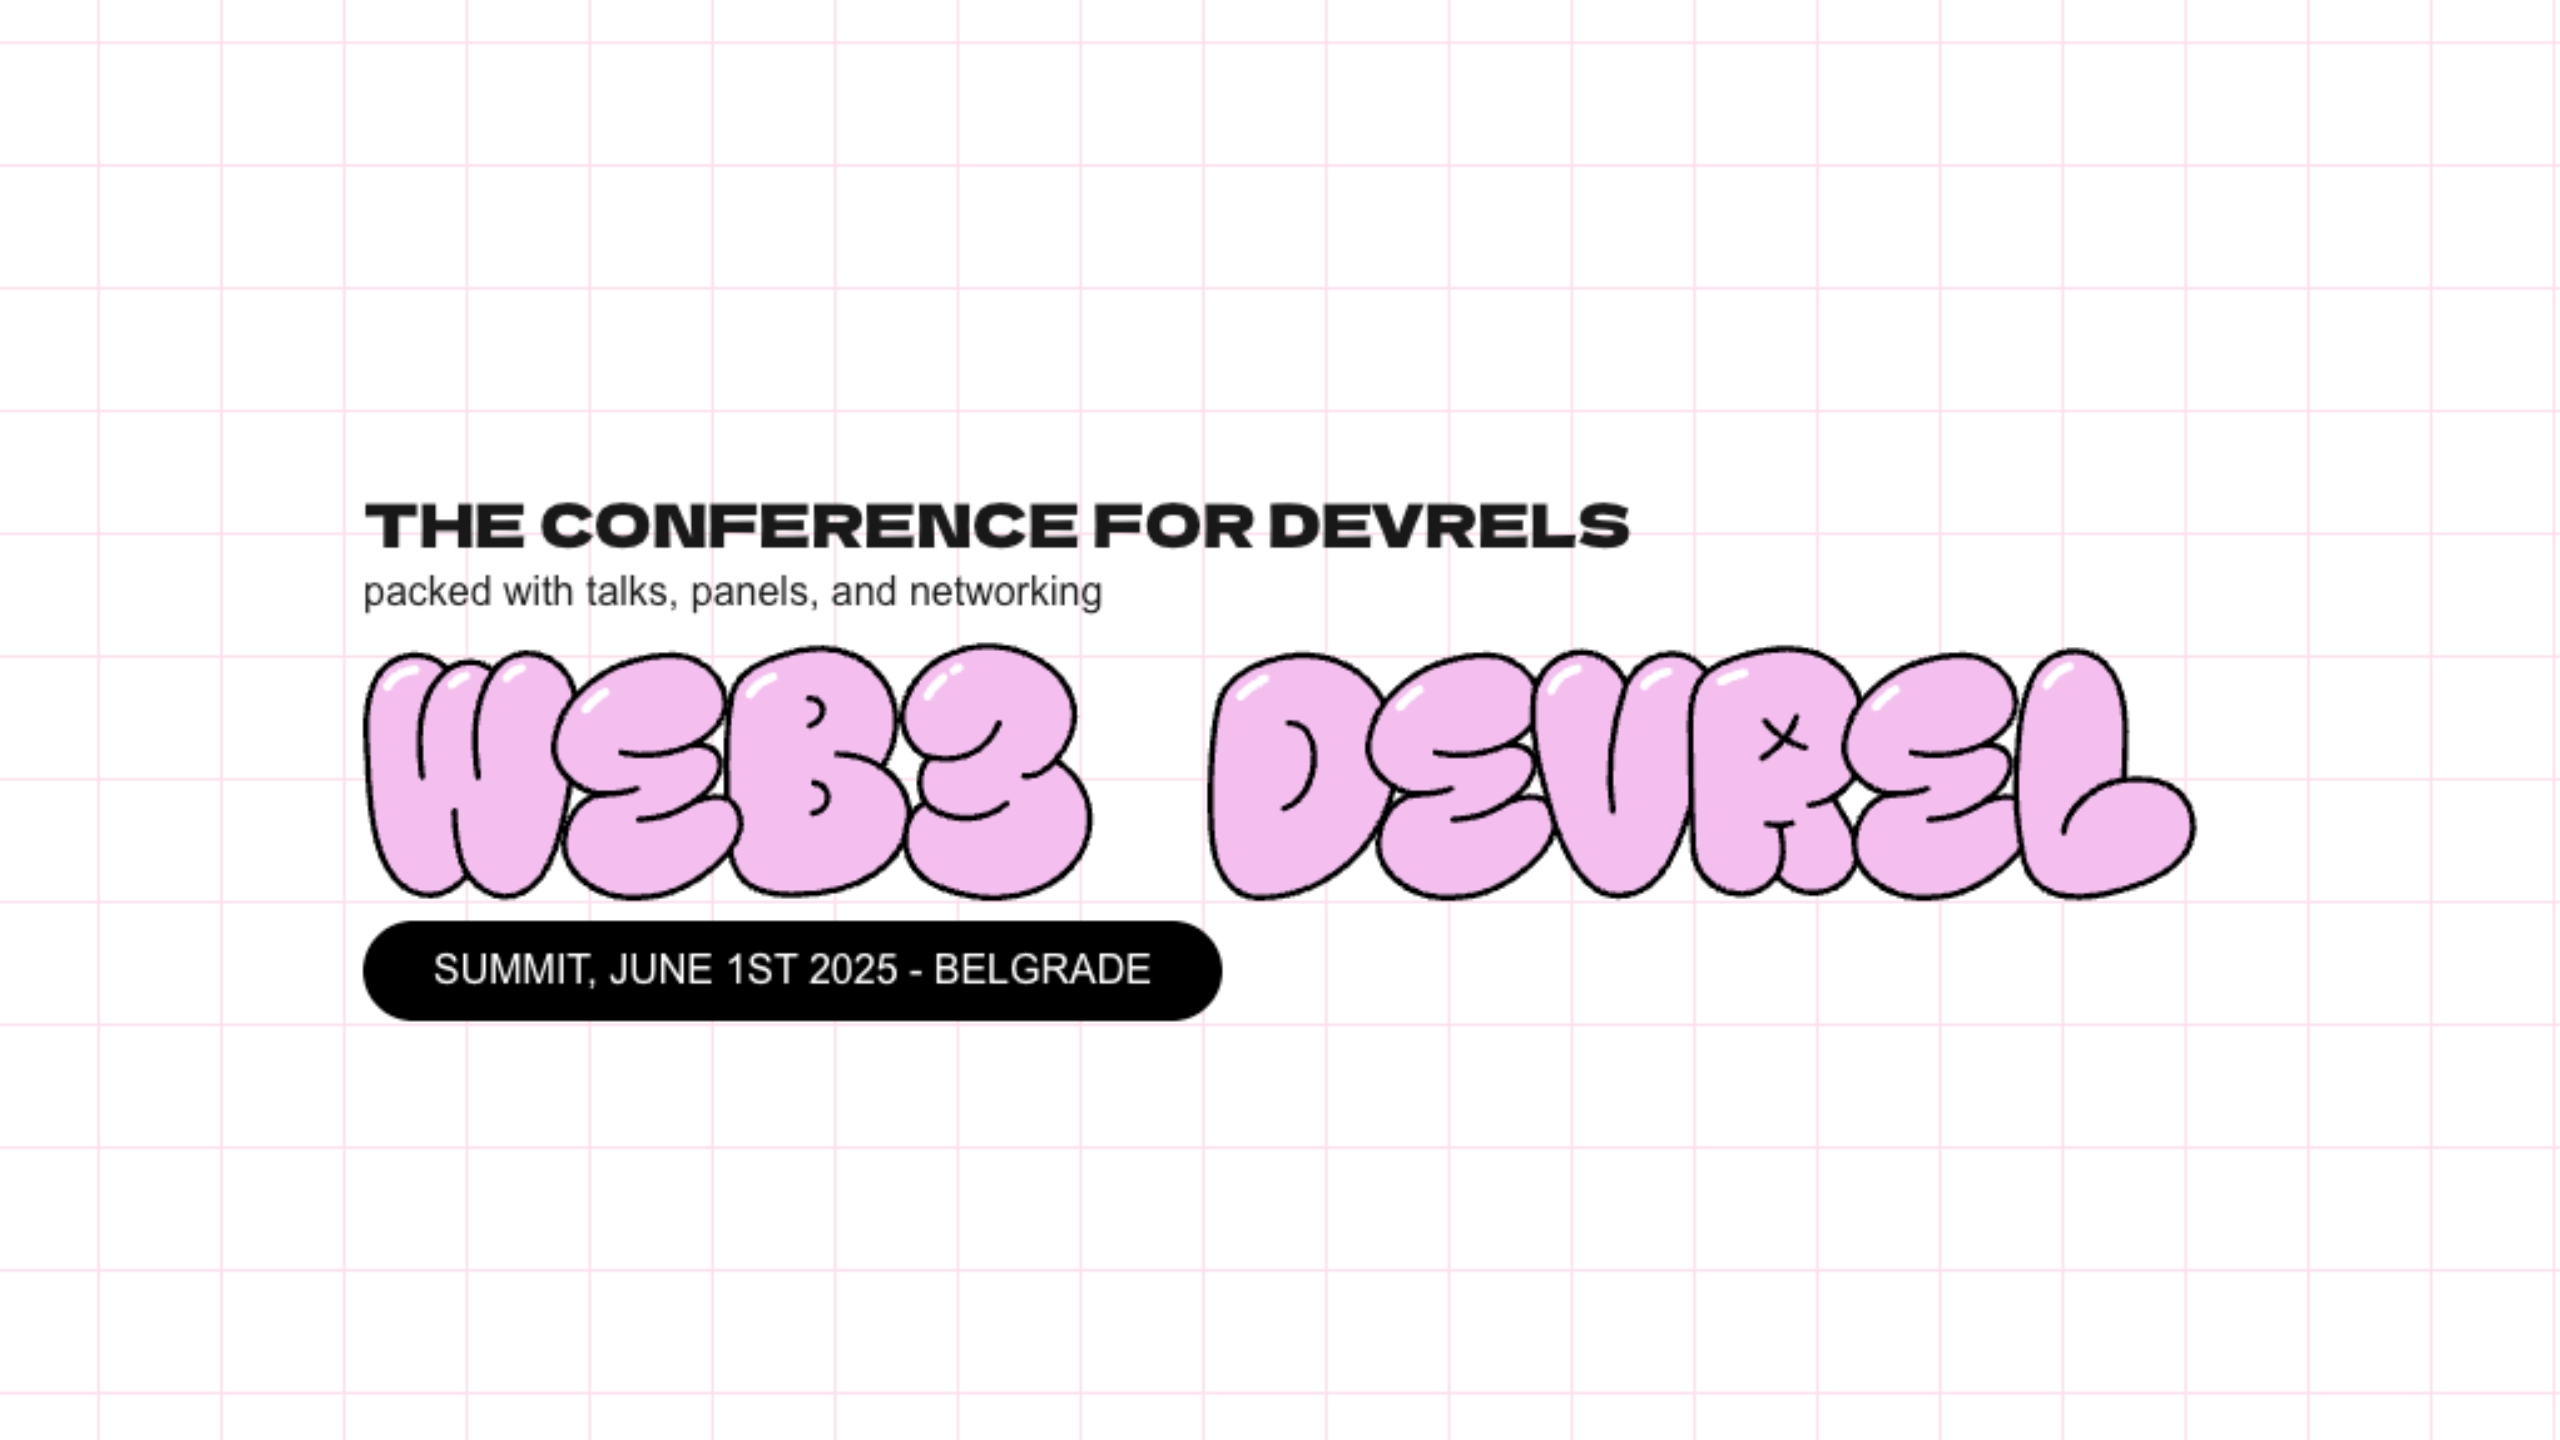
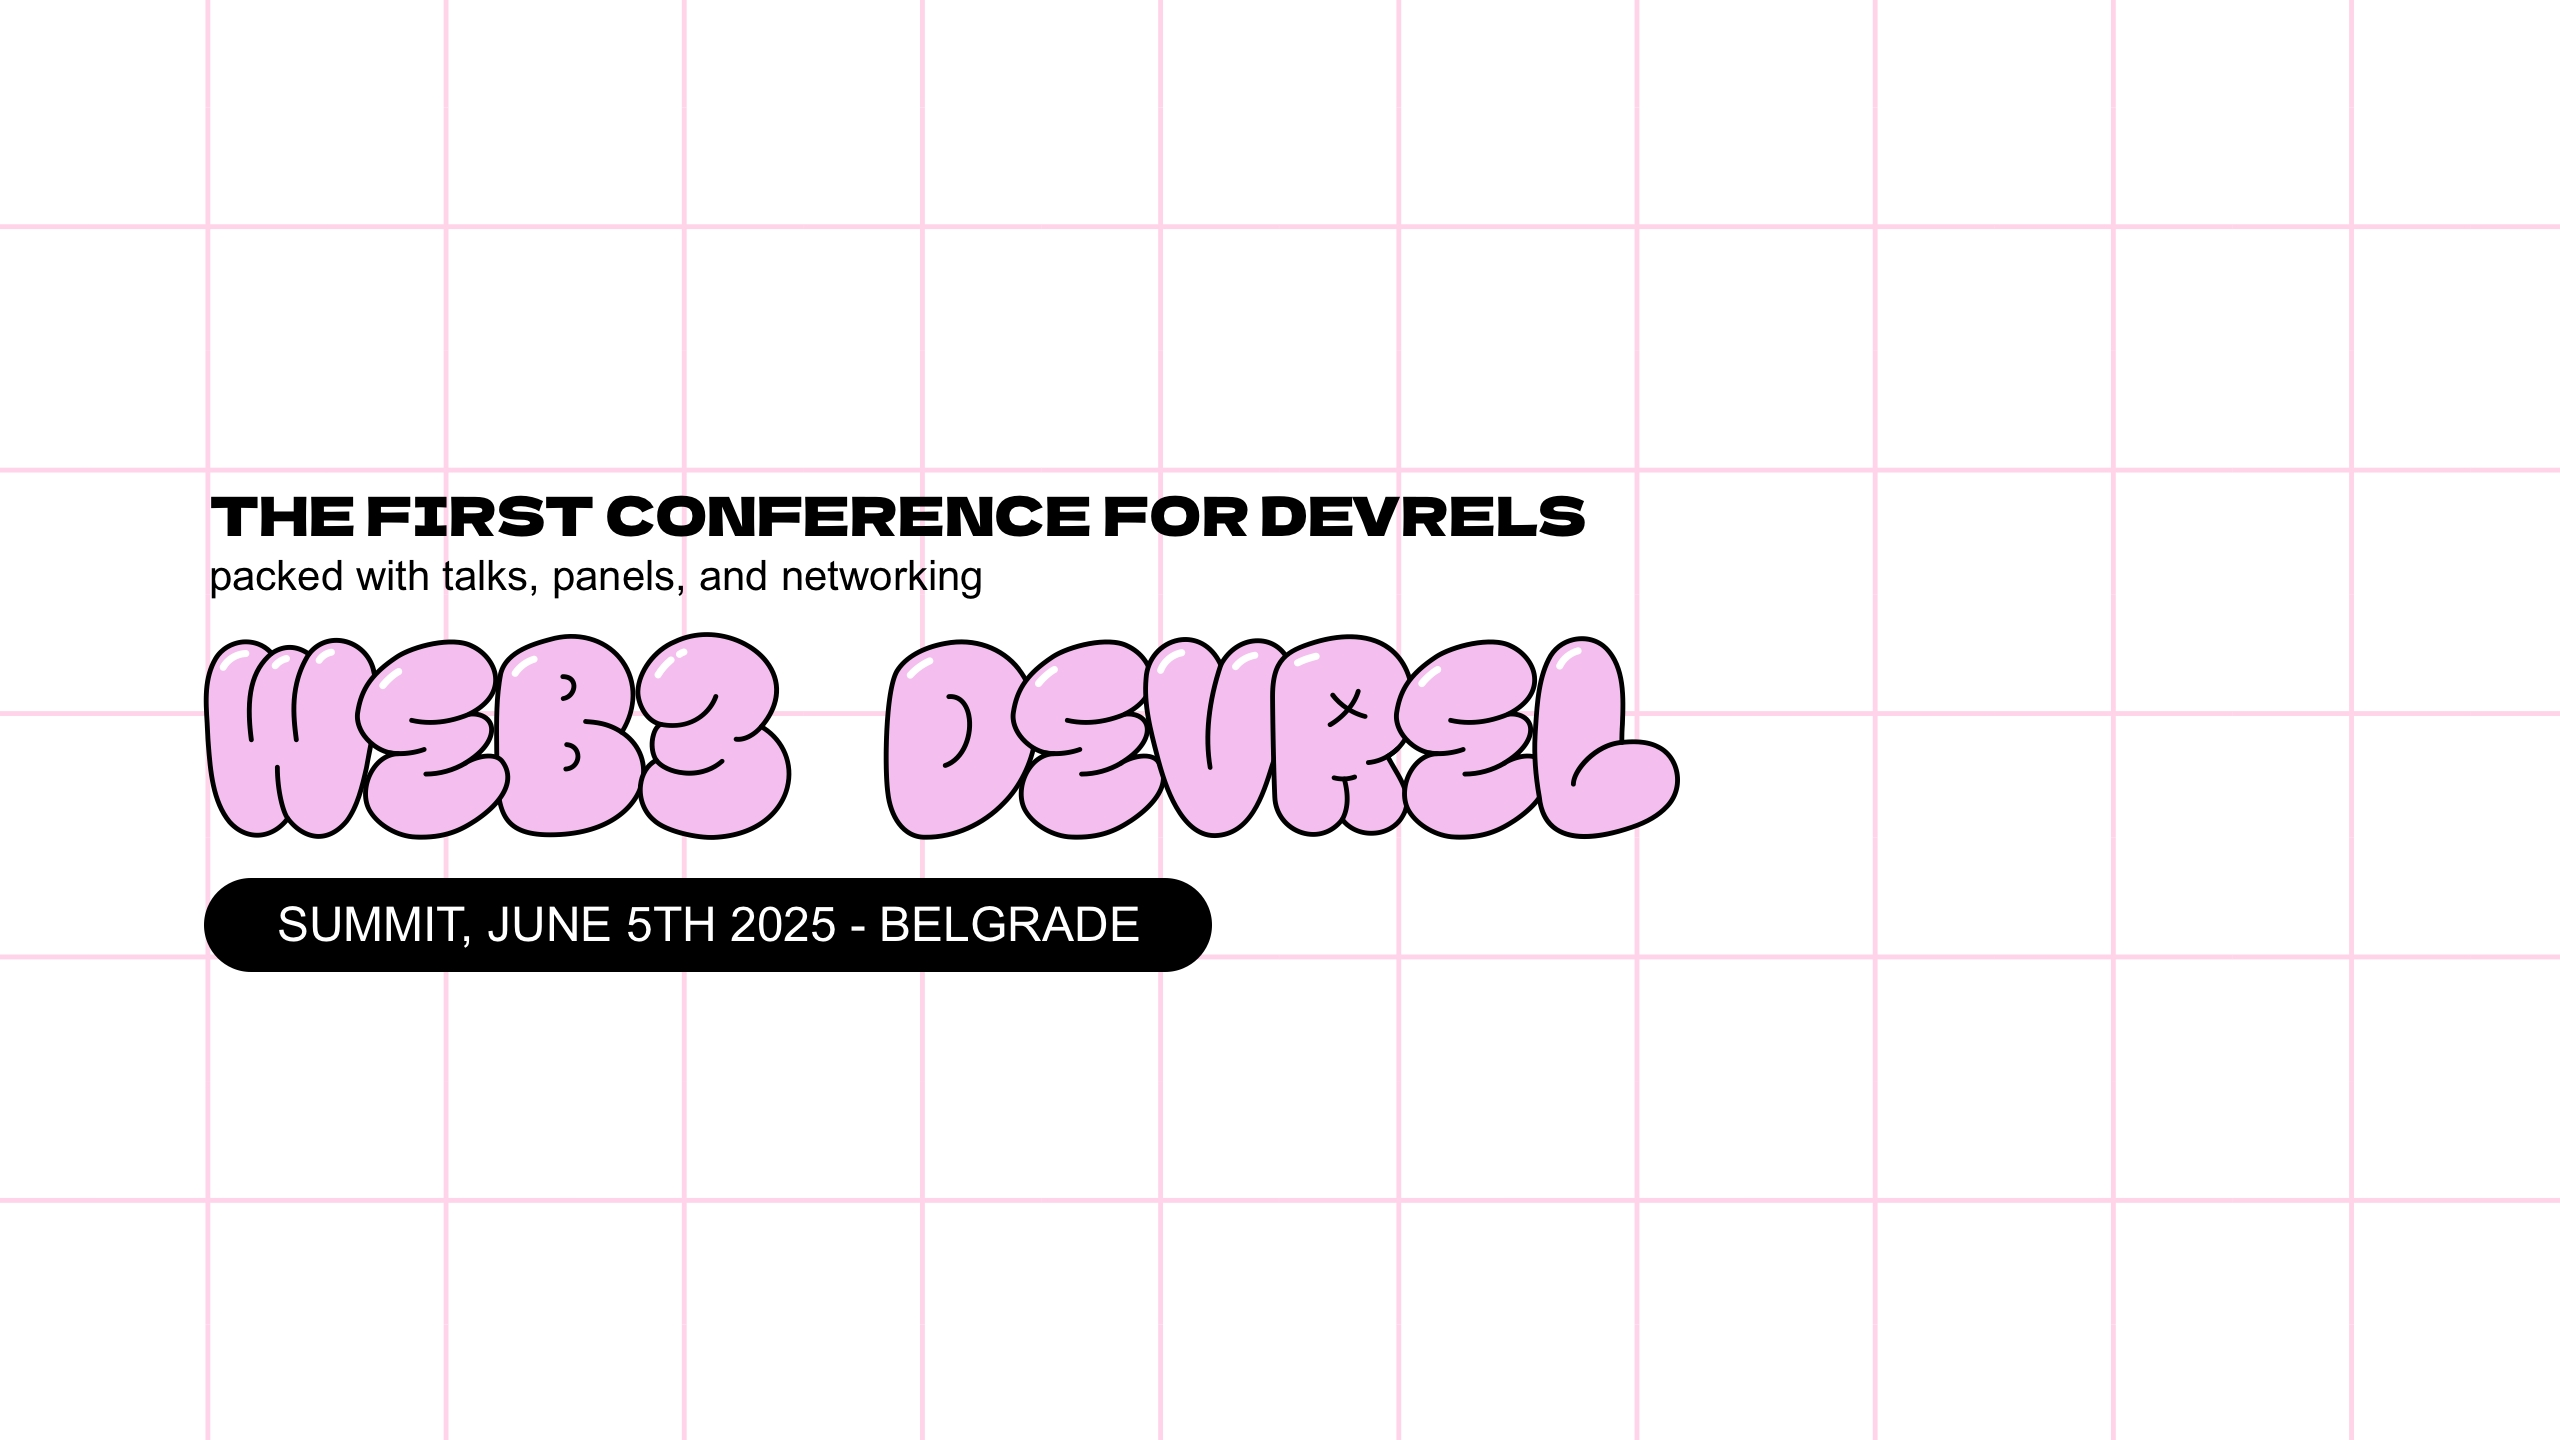
Change dates

diff --git a/src/app/page.js b/src/app/page.js
@@ -20,7 +20,7 @@ export default function Home() {
           packed with talks, panels, and networking
         </div>
         <img className="mt-2" src="/web3devrel.svg" />
-        <p className="uppercase bg-black inline-block text-sm sm:text-base text-white px-7 py-2 rounded-full mt-2">summit, June 2nd 2025 - Belgrade</p>
+        <p className="uppercase bg-black inline-block text-sm sm:text-base text-white px-7 py-2 rounded-full mt-2">summit, June 5th 2025 - Belgrade</p>
         <div className="sm:flex items-center justify-between py-10 mt-2">
           <p className={`mb-3 sm:mb-0`}><b>Have something to say?</b> Speaker applications are open</p>
           <a href="https://forms.gle/DQWw8XviBzNDCWag9" target="_blank" rel="noreferrer noopener">
